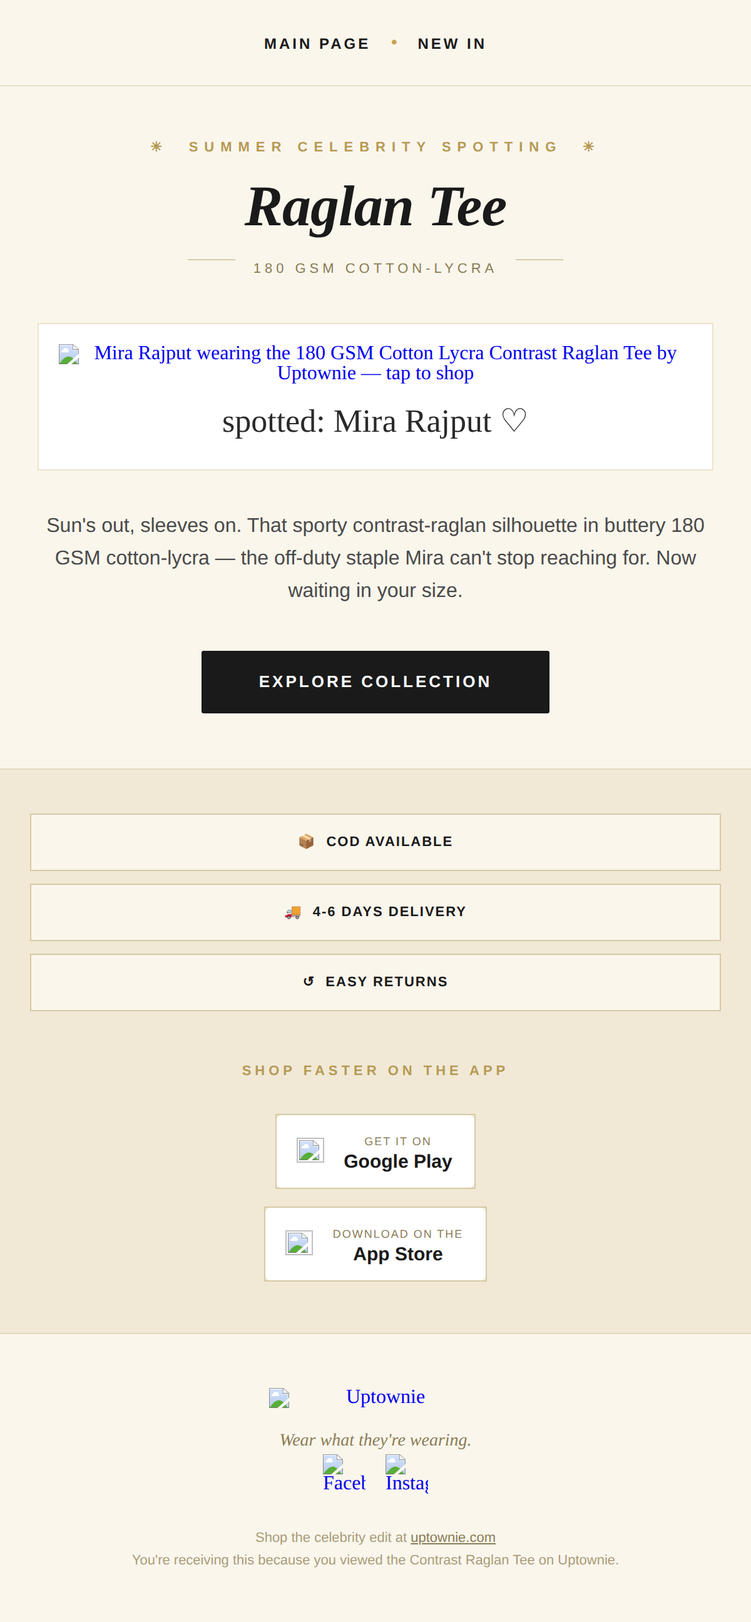
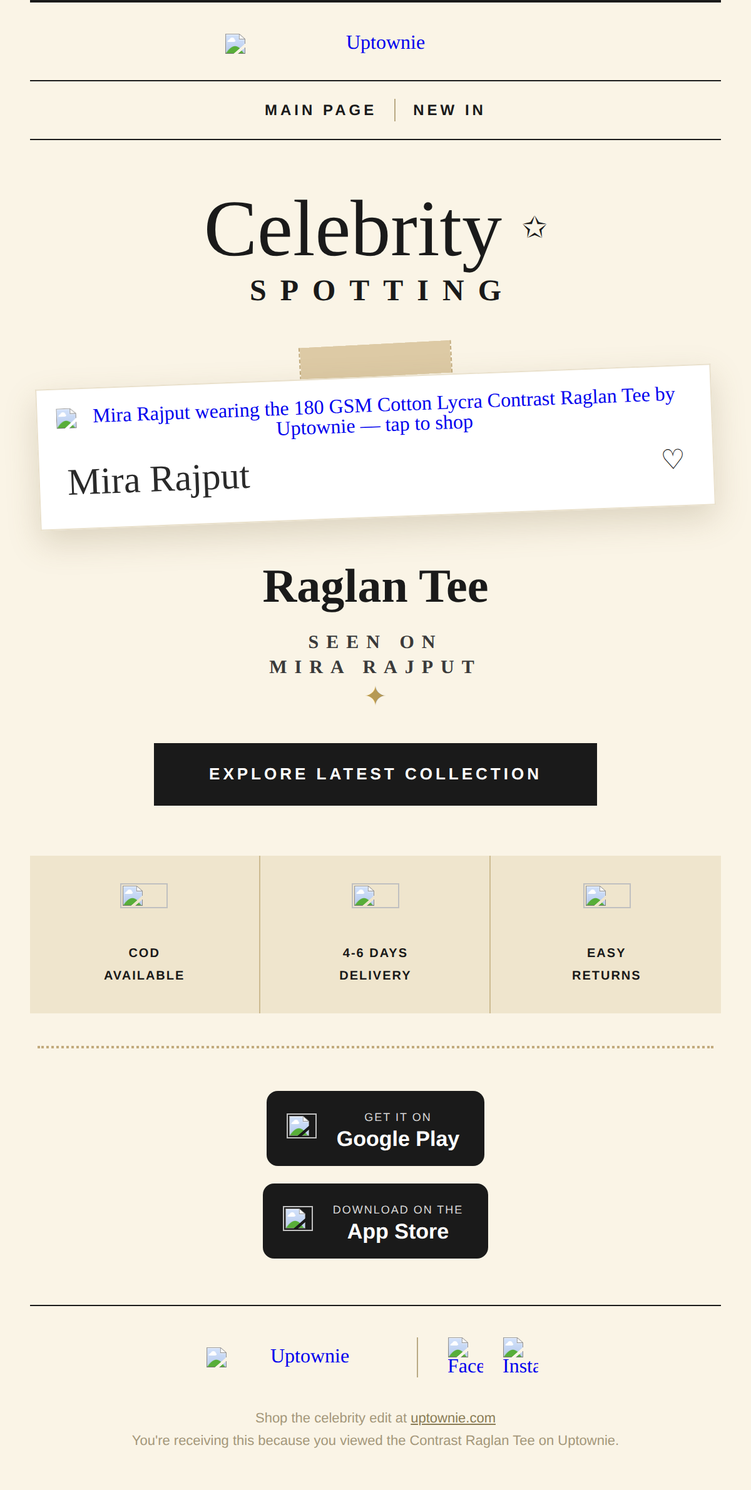
Rebuild email to match celebrity-spotting reference design (polaroid, script fonts, trust + app + social)

diff --git a/raglan-tee-email.html b/raglan-tee-email.html
@@ -7,7 +7,7 @@
   <meta name="x-apple-disable-message-reformatting">
   <meta name="color-scheme" content="light only">
   <meta name="supported-color-schemes" content="light only">
-  <title>Spotted: Mira Rajput in the Raglan Tee</title>
+  <title>Celebrity Spotting — Mira Rajput in the Raglan Tee</title>
   <!--[if mso]>
   <noscript>
     <xml>
@@ -18,6 +18,8 @@
   </noscript>
   <![endif]-->
   <style>
+    @import url('https://fonts.googleapis.com/css2?family=Great+Vibes&family=Playfair+Display:ital,wght@0,600;0,700;0,800;1,600&family=Caveat:wght@600;700&display=swap');
+
     html, body { margin: 0 auto !important; padding: 0 !important; height: 100% !important; width: 100% !important; }
     * { -ms-text-size-adjust: 100%; -webkit-text-size-adjust: 100%; }
     table, td { mso-table-lspace: 0pt !important; mso-table-rspace: 0pt !important; }
@@ -26,22 +28,25 @@
     a { text-decoration: none; }
 
     .btn-explore a { transition: all 0.25s ease; }
-    .btn-explore:hover a { background-color: #1a1a1a !important; color: #ffffff !important; }
-    .trust a:hover { border-color: #c8a24a !important; }
+    .btn-explore:hover a { background-color: #3a3a3a !important; }
+    .polaroid { transform: rotate(-2.2deg); }
+    .tape { transform: rotate(-3deg); }
 
     @media screen and (max-width: 600px) {
       .email-container { width: 100% !important; margin: auto !important; }
       .fluid { max-width: 100% !important; height: auto !important; }
-      .stack-pad { padding-left: 24px !important; padding-right: 24px !important; }
-      .h1 { font-size: 46px !important; line-height: 48px !important; }
-      .nav-link { font-size: 12px !important; padding: 0 12px !important; }
-      .trust-cell { display: block !important; width: 100% !important; padding: 5px 0 !important; }
+      .stack-pad { padding-left: 22px !important; padding-right: 22px !important; }
+      .script { font-size: 64px !important; line-height: 60px !important; }
+      .h1 { font-size: 38px !important; line-height: 42px !important; }
+      .nav-link { font-size: 12px !important; padding: 0 14px !important; }
+      .trust-ico { width: 38px !important; }
+      .trust-txt { font-size: 10px !important; }
       .app-cell { display: block !important; width: 100% !important; text-align: center !important; padding: 7px 0 !important; }
     }
   </style>
 </head>
-<body width="100%" style="margin:0; padding:0 !important; mso-line-height-rule:exactly; background-color:#efe7d4;">
-  <center style="width:100%; background-color:#efe7d4;">
+<body width="100%" style="margin:0; padding:0 !important; mso-line-height-rule:exactly; background-color:#f1e8d4; background-image:url('https://www.transparenttextures.com/patterns/cream-paper.png');">
+  <center style="width:100%; background-color:#f1e8d4; background-image:url('https://www.transparenttextures.com/patterns/cream-paper.png');">
 
   <!-- Preheader -->
   <div style="display:none; font-size:1px; line-height:1px; max-height:0; max-width:0; opacity:0; overflow:hidden; mso-hide:all; font-family:sans-serif;">
@@ -51,66 +56,101 @@
 
   <div style="max-width:600px; margin:0 auto;" class="email-container">
     <!--[if mso]>
-    <table role="presentation" align="center" border="0" cellpadding="0" cellspacing="0" width="600"><tr><td>
+    <table role="presentation" align="center" border="0" cellpadding="0" cellspacing="0" width="600"><tr><td bgcolor="#faf4e6">
     <![endif]-->
 
-    <table role="presentation" align="center" border="0" cellpadding="0" cellspacing="0" width="100%" style="max-width:600px; background-color:#faf6ec;">
+    <table role="presentation" align="center" border="0" cellpadding="0" cellspacing="0" width="100%" style="max-width:600px; background-color:#faf4e6; background-image:url('https://www.transparenttextures.com/patterns/cream-paper.png');">
 
-      <!-- HEADER NAV (logo now lives in footer) -->
+      <!-- 1. LOGO HEADER (bordered, like reference) -->
       <tr>
-        <td style="padding:26px 0 24px; text-align:center; background-color:#faf6ec; border-bottom:1px solid #e9dfc6;">
-          <a href="https://uptownie.com/" target="_blank" class="nav-link" style="display:inline-block; padding:0 24px; font-family:Arial,sans-serif; font-size:13px; line-height:16px; letter-spacing:2px; font-weight:bold; text-transform:uppercase; color:#1a1a1a;">Main Page</a>
-          <span style="display:inline-block; color:#c8a24a;">&bull;</span>
-          <a href="https://uptownie.com/collections/new-in" target="_blank" class="nav-link" style="display:inline-block; padding:0 24px; font-family:Arial,sans-serif; font-size:13px; line-height:16px; letter-spacing:2px; font-weight:bold; text-transform:uppercase; color:#1a1a1a;">New In</a>
+        <td style="padding:0 24px;">
+          <table role="presentation" border="0" cellpadding="0" cellspacing="0" width="100%">
+            <tr><td style="border-top:2px solid #1a1a1a; font-size:0; line-height:0; height:2px;">&nbsp;</td></tr>
+          </table>
+        </td>
+      </tr>
+      <tr>
+        <td style="padding:22px 24px 20px; text-align:center;">
+          <a href="https://uptownie.com/" target="_blank" style="text-decoration:none;">
+            <img src="https://cdn.shopify.com/s/files/1/1780/3381/files/UPTOWNIE_black_logo_20050px.jpg?v=1781509034" width="240" alt="Uptownie" style="display:inline-block; width:240px; max-width:72%; height:auto;">
+          </a>
         </td>
       </tr>
 
-      <!-- EYEBROW -->
+      <!-- 4. HEADER NAV (Main Page | New In) -->
       <tr>
-        <td style="padding:40px 30px 0; text-align:center; background-color:#faf6ec;">
-          <p style="margin:0; font-family:Arial,sans-serif; font-size:11px; line-height:18px; letter-spacing:5px; text-transform:uppercase; color:#b69a55; font-weight:bold;">
-            &#9728;&nbsp;&nbsp;Summer Celebrity Spotting&nbsp;&nbsp;&#9728;
+        <td style="padding:0 24px;">
+          <table role="presentation" border="0" cellpadding="0" cellspacing="0" width="100%">
+            <tr><td style="border-top:1px solid #1a1a1a; font-size:0; line-height:0; height:1px;">&nbsp;</td></tr>
+          </table>
+        </td>
+      </tr>
+      <tr>
+        <td style="padding:13px 24px 14px; text-align:center;">
+          <table role="presentation" align="center" border="0" cellpadding="0" cellspacing="0">
+            <tr>
+              <td style="text-align:center;">
+                <a href="https://uptownie.com/" target="_blank" class="nav-link" style="display:inline-block; padding:0 40px; font-family:Arial,Helvetica,sans-serif; font-size:13px; line-height:16px; letter-spacing:2.5px; font-weight:bold; text-transform:uppercase; color:#1a1a1a;">Main Page</a>
+              </td>
+              <td style="border-left:1px solid #b9aa84; height:18px; font-size:0; line-height:0;">&nbsp;</td>
+              <td style="text-align:center;">
+                <a href="https://uptownie.com/collections/new-in" target="_blank" class="nav-link" style="display:inline-block; padding:0 40px; font-family:Arial,Helvetica,sans-serif; font-size:13px; line-height:16px; letter-spacing:2.5px; font-weight:bold; text-transform:uppercase; color:#1a1a1a;">New In</a>
+              </td>
+            </tr>
+          </table>
+        </td>
+      </tr>
+      <tr>
+        <td style="padding:0 24px;">
+          <table role="presentation" border="0" cellpadding="0" cellspacing="0" width="100%">
+            <tr><td style="border-top:1px solid #1a1a1a; font-size:0; line-height:0; height:1px;">&nbsp;</td></tr>
+          </table>
+        </td>
+      </tr>
+
+      <!-- 7. CELEBRITY SPOTTING (script heading) -->
+      <tr>
+        <td style="padding:40px 30px 4px; text-align:center;">
+          <p class="script" style="margin:0; font-family:'Great Vibes','Brush Script MT',cursive; font-size:74px; line-height:64px; color:#1a1a1a; font-weight:400;">
+            Celebrity <span style="font-family:Arial,sans-serif; font-size:24px; vertical-align:top; color:#1a1a1a;">&#10025;</span>
+          </p>
+          <p style="margin:6px 0 0; font-family:'Playfair Display',Georgia,serif; font-size:24px; line-height:28px; letter-spacing:11px; text-transform:uppercase; color:#1a1a1a; font-weight:600; padding-left:11px;">
+            Spotting
           </p>
         </td>
       </tr>
 
-      <!-- HEADLINE — "Raglan Tee" bold italic serif -->
+      <!-- 2 + 5. POLAROID (washi tape + tilt + clickable -> product) -->
       <tr>
-        <td class="stack-pad" style="padding:14px 40px 0; text-align:center; background-color:#faf6ec;">
-          <h1 class="h1" style="margin:0; font-family:Georgia,'Times New Roman',serif; font-size:54px; line-height:56px; color:#1a1a1a; font-weight:bold; font-style:italic; letter-spacing:-0.5px;">
-            Raglan&nbsp;Tee
-          </h1>
-        </td>
-      </tr>
-      <tr>
-        <td style="padding:18px 0 6px; text-align:center; background-color:#faf6ec;">
-          <table role="presentation" align="center" border="0" cellpadding="0" cellspacing="0"><tr>
-            <td style="border-top:1px solid #d8cba8; width:38px; font-size:0; line-height:0;">&nbsp;</td>
-            <td style="padding:0 14px; font-family:Arial,sans-serif; font-size:11px; line-height:14px; letter-spacing:3px; text-transform:uppercase; color:#8a7c55;">180 GSM Cotton-Lycra</td>
-            <td style="border-top:1px solid #d8cba8; width:38px; font-size:0; line-height:0;">&nbsp;</td>
-          </tr></table>
-        </td>
-      </tr>
-
-      <!-- POLAROID HERO (clickable -> product page) -->
-      <tr>
-        <td style="padding:30px 30px 12px; text-align:center; background-color:#faf6ec;">
+        <td style="padding:24px 30px 0; text-align:center;">
           <!--[if mso]>
-          <table role="presentation" align="center" border="0" cellpadding="0" cellspacing="0" width="420"><tr><td>
+          <table role="presentation" align="center" border="0" cellpadding="0" cellspacing="0" width="400"><tr><td align="center">
           <![endif]-->
-          <table role="presentation" align="center" border="0" cellpadding="0" cellspacing="0" style="margin:0 auto; background-color:#ffffff; border:1px solid #ece3cb;">
+          <!-- washi tape -->
+          <table role="presentation" align="center" border="0" cellpadding="0" cellspacing="0" class="tape" style="margin:0 auto -14px;">
             <tr>
-              <td style="padding:16px 16px 0;">
+              <td height="26" width="120" style="background-color:#d8c39a; opacity:0.85; font-size:0; line-height:0; border-left:1px dashed #c2ab7d; border-right:1px dashed #c2ab7d;">&nbsp;</td>
+            </tr>
+          </table>
+          <!-- polaroid frame -->
+          <table role="presentation" align="center" border="0" cellpadding="0" cellspacing="0" class="polaroid" style="margin:0 auto; background-color:#ffffff; border:1px solid #e9e0cb; box-shadow:0 10px 26px rgba(120,100,60,0.22);">
+            <tr>
+              <td style="padding:15px 15px 0;">
                 <a href="https://uptownie.com/products/180-gsm-cotton-lycra-contrast-raglan-tee-1" target="_blank" style="text-decoration:none;">
-                  <img src="https://cdn.shopify.com/s/files/1/1780/3381/files/CELEBRITY_X_PUJA_CREATIVE.jpg?v=1781508640" width="390" alt="Mira Rajput wearing the 180 GSM Cotton Lycra Contrast Raglan Tee by Uptownie — tap to shop" class="fluid" style="width:100%; max-width:390px; height:auto; display:block; border:0;">
+                  <img src="https://cdn.shopify.com/s/files/1/1780/3381/files/CELEBRITY_X_PUJA_CREATIVE.jpg?v=1781508640" width="380" alt="Mira Rajput wearing the 180 GSM Cotton Lycra Contrast Raglan Tee by Uptownie — tap to shop" class="fluid" style="width:100%; max-width:380px; height:auto; display:block; border:0;">
                 </a>
               </td>
             </tr>
             <tr>
-              <td style="padding:16px 16px 24px; text-align:center;">
-                <p style="margin:0; font-family:'Brush Script MT','Segoe Script',cursive; font-size:26px; line-height:28px; color:#2a2a2a;">
-                  spotted: Mira Rajput &#9825;
-                </p>
+              <td style="padding:12px 22px 20px;">
+                <table role="presentation" border="0" cellpadding="0" cellspacing="0" width="100%">
+                  <tr>
+                    <td style="text-align:left; font-family:'Caveat','Brush Script MT',cursive; font-size:30px; line-height:32px; color:#2a2a2a;">
+                      Mira Rajput
+                    </td>
+                    <td style="text-align:right; font-family:Arial,sans-serif; font-size:22px; color:#1a1a1a;">&#9825;</td>
+                  </tr>
+                </table>
               </td>
             </tr>
           </table>
@@ -120,26 +160,28 @@
         </td>
       </tr>
 
-      <!-- BODY COPY -->
+      <!-- 3. RAGLAN TEE (bold serif) + SEEN ON -->
       <tr>
-        <td class="stack-pad" style="padding:20px 52px 4px; text-align:center; background-color:#faf6ec;">
-          <p style="margin:0; font-family:Arial,sans-serif; font-size:16px; line-height:26px; color:#4a4a4a;">
-            Sun's out, sleeves on. That sporty contrast-raglan silhouette in buttery
-            180 GSM cotton-lycra &mdash; the off-duty staple Mira can't stop reaching for.
-            Now waiting in your size.
+        <td class="stack-pad" style="padding:34px 40px 0; text-align:center;">
+          <h1 class="h1" style="margin:0; font-family:'Playfair Display',Georgia,'Times New Roman',serif; font-size:42px; line-height:46px; color:#1a1a1a; font-weight:800;">
+            Raglan Tee
+          </h1>
+          <p style="margin:14px 0 0; font-family:'Playfair Display',Georgia,serif; font-size:15px; line-height:20px; letter-spacing:6px; text-transform:uppercase; color:#3a3a3a; font-weight:600;">
+            Seen On<br>Mira Rajput
           </p>
+          <p style="margin:2px 0 0; font-family:'Great Vibes',cursive; font-size:22px; line-height:22px; color:#b69a55;">&#10022;</p>
         </td>
       </tr>
 
-      <!-- EXPLORE COLLECTION BUTTON -->
+      <!-- 6. EXPLORE LATEST COLLECTION button -->
       <tr>
-        <td style="padding:30px 40px 44px; text-align:center; background-color:#faf6ec;">
+        <td style="padding:26px 40px 40px; text-align:center;">
           <table role="presentation" align="center" border="0" cellpadding="0" cellspacing="0" class="btn-explore" style="margin:0 auto;">
             <tr>
-              <td align="center" bgcolor="#1a1a1a" style="border-radius:2px;">
+              <td align="center" bgcolor="#1a1a1a">
                 <a href="https://uptownie.com/collections/new-in" target="_blank"
-                   style="display:inline-block; padding:17px 46px; font-family:Arial,sans-serif; font-size:13px; line-height:16px; font-weight:bold; letter-spacing:2px; color:#ffffff; text-transform:uppercase; background-color:#1a1a1a; border-radius:2px;">
-                  Explore Collection
+                   style="display:inline-block; padding:17px 44px; font-family:Arial,Helvetica,sans-serif; font-size:13px; line-height:16px; font-weight:bold; letter-spacing:2.5px; color:#ffffff; text-transform:uppercase; background-color:#1a1a1a;">
+                  Explore Latest Collection
                 </a>
               </td>
             </tr>
@@ -147,24 +189,29 @@
         </td>
       </tr>
 
-      <!-- TRUST / SERVICE BUTTONS (light) -->
+      <!-- 8. TRUST BADGES (line icons, dividers) -->
       <tr>
-        <td class="trust" style="padding:30px 24px 18px; text-align:center; background-color:#f1e9d6; border-top:1px solid #e4d9bd;">
-          <table role="presentation" align="center" border="0" cellpadding="0" cellspacing="0" width="100%">
+        <td style="padding:0 24px;">
+          <table role="presentation" border="0" cellpadding="0" cellspacing="0" width="100%" style="background-color:#efe5cd; background-image:url('https://www.transparenttextures.com/patterns/cream-paper.png');">
             <tr>
-              <td class="trust-cell" align="center" width="33%" style="padding:6px;">
-                <a href="https://uptownie.com/" target="_blank" style="display:block; padding:14px 6px; font-family:Arial,sans-serif; font-size:11px; line-height:16px; letter-spacing:1px; font-weight:bold; text-transform:uppercase; color:#1a1a1a; border:1px solid #d6c9a5; background-color:#faf6ec;">
-                  &#128230;&nbsp; COD Available
+              <td style="padding:22px 8px; text-align:center; width:33.33%;">
+                <a href="https://uptownie.com/" target="_blank" style="text-decoration:none; display:inline-block;">
+                  <img src="https://img.icons8.com/ios/100/1a1a1a/box.png" width="44" height="44" alt="" class="trust-ico" style="display:block; margin:0 auto 8px;">
+                  <span class="trust-txt" style="font-family:Arial,sans-serif; font-size:11px; line-height:15px; letter-spacing:1px; font-weight:bold; text-transform:uppercase; color:#1a1a1a;">COD<br>Available</span>
                 </a>
               </td>
-              <td class="trust-cell" align="center" width="34%" style="padding:6px;">
-                <a href="https://uptownie.com/" target="_blank" style="display:block; padding:14px 6px; font-family:Arial,sans-serif; font-size:11px; line-height:16px; letter-spacing:1px; font-weight:bold; text-transform:uppercase; color:#1a1a1a; border:1px solid #d6c9a5; background-color:#faf6ec;">
-                  &#128666;&nbsp; 4-6 Days Delivery
+              <td style="border-left:1px solid #cdbb91; width:1px; font-size:0;">&nbsp;</td>
+              <td style="padding:22px 8px; text-align:center; width:33.33%;">
+                <a href="https://uptownie.com/" target="_blank" style="text-decoration:none; display:inline-block;">
+                  <img src="https://img.icons8.com/ios/100/1a1a1a/in-transit.png" width="44" height="44" alt="" class="trust-ico" style="display:block; margin:0 auto 8px;">
+                  <span class="trust-txt" style="font-family:Arial,sans-serif; font-size:11px; line-height:15px; letter-spacing:1px; font-weight:bold; text-transform:uppercase; color:#1a1a1a;">4-6 Days<br>Delivery</span>
                 </a>
               </td>
-              <td class="trust-cell" align="center" width="33%" style="padding:6px;">
-                <a href="https://uptownie.com/" target="_blank" style="display:block; padding:14px 6px; font-family:Arial,sans-serif; font-size:11px; line-height:16px; letter-spacing:1px; font-weight:bold; text-transform:uppercase; color:#1a1a1a; border:1px solid #d6c9a5; background-color:#faf6ec;">
-                  &#8634;&nbsp; Easy Returns
+              <td style="border-left:1px solid #cdbb91; width:1px; font-size:0;">&nbsp;</td>
+              <td style="padding:22px 8px; text-align:center; width:33.33%;">
+                <a href="https://uptownie.com/" target="_blank" style="text-decoration:none; display:inline-block;">
+                  <img src="https://img.icons8.com/ios/100/1a1a1a/return-purchase.png" width="44" height="44" alt="" class="trust-ico" style="display:block; margin:0 auto 8px;">
+                  <span class="trust-txt" style="font-family:Arial,sans-serif; font-size:11px; line-height:15px; letter-spacing:1px; font-weight:bold; text-transform:uppercase; color:#1a1a1a;">Easy<br>Returns</span>
                 </a>
               </td>
             </tr>
@@ -172,39 +219,45 @@
         </td>
       </tr>
 
-      <!-- APP DOWNLOAD BUTTONS (light, outlined) -->
+      <!-- dotted divider -->
       <tr>
-        <td style="padding:16px 24px 34px; text-align:center; background-color:#f1e9d6;">
-          <p style="margin:0 0 18px; font-family:Arial,sans-serif; font-size:11px; line-height:18px; letter-spacing:3px; text-transform:uppercase; color:#b69a55; font-weight:bold;">
-            Shop faster on the app
-          </p>
+        <td style="padding:26px 30px 4px;">
+          <table role="presentation" border="0" cellpadding="0" cellspacing="0" width="100%">
+            <tr><td style="border-top:2px dotted #c2ab7d; font-size:0; line-height:0; height:1px;">&nbsp;</td></tr>
+          </table>
+        </td>
+      </tr>
+
+      <!-- 9. APP DOWNLOAD BADGES -->
+      <tr>
+        <td style="padding:22px 24px 30px; text-align:center;">
           <table role="presentation" align="center" border="0" cellpadding="0" cellspacing="0" style="margin:0 auto;">
             <tr>
-              <td class="app-cell" align="center" style="padding:0 6px;">
+              <td class="app-cell" align="center" style="padding:0 7px;">
                 <a href="https://play.google.com/store/search?q=uptownie&c=apps" target="_blank" style="text-decoration:none;">
-                  <table role="presentation" border="0" cellpadding="0" cellspacing="0" style="background-color:#ffffff; border:1px solid #d6c9a5; border-radius:8px;">
+                  <table role="presentation" border="0" cellpadding="0" cellspacing="0" style="background-color:#1a1a1a; border-radius:9px;">
                     <tr>
                       <td style="padding:11px 16px;">
-                        <img src="https://img.icons8.com/color/48/google-play.png" width="22" height="22" alt="" style="display:inline-block; vertical-align:middle;">
+                        <img src="https://img.icons8.com/color/48/google-play.png" width="24" height="24" alt="" style="display:inline-block; vertical-align:middle;">
                       </td>
-                      <td style="padding:11px 18px 11px 0;">
-                        <span style="font-family:Arial,sans-serif; font-size:9px; line-height:11px; letter-spacing:1px; color:#8a7c55; text-transform:uppercase;">Get it on</span><br>
-                        <span style="font-family:Arial,sans-serif; font-size:15px; line-height:17px; color:#1a1a1a; font-weight:bold;">Google Play</span>
+                      <td style="padding:11px 20px 11px 0;">
+                        <span style="font-family:Arial,sans-serif; font-size:9px; line-height:11px; letter-spacing:1px; color:#d9d9d9; text-transform:uppercase;">Get it on</span><br>
+                        <span style="font-family:Arial,sans-serif; font-size:17px; line-height:19px; color:#ffffff; font-weight:bold;">Google Play</span>
                       </td>
                     </tr>
                   </table>
                 </a>
               </td>
-              <td class="app-cell" align="center" style="padding:0 6px;">
+              <td class="app-cell" align="center" style="padding:0 7px;">
                 <a href="https://apps.apple.com/in/app/uptownie/id6615086863" target="_blank" style="text-decoration:none;">
-                  <table role="presentation" border="0" cellpadding="0" cellspacing="0" style="background-color:#ffffff; border:1px solid #d6c9a5; border-radius:8px;">
+                  <table role="presentation" border="0" cellpadding="0" cellspacing="0" style="background-color:#1a1a1a; border-radius:9px;">
                     <tr>
                       <td style="padding:11px 16px;">
-                        <img src="https://img.icons8.com/ios-filled/50/1a1a1a/mac-os.png" width="22" height="22" alt="" style="display:inline-block; vertical-align:middle;">
+                        <img src="https://img.icons8.com/ios-filled/50/ffffff/mac-os.png" width="24" height="24" alt="" style="display:inline-block; vertical-align:middle;">
                       </td>
-                      <td style="padding:11px 18px 11px 0;">
-                        <span style="font-family:Arial,sans-serif; font-size:9px; line-height:11px; letter-spacing:1px; color:#8a7c55; text-transform:uppercase;">Download on the</span><br>
-                        <span style="font-family:Arial,sans-serif; font-size:15px; line-height:17px; color:#1a1a1a; font-weight:bold;">App Store</span>
+                      <td style="padding:11px 20px 11px 0;">
+                        <span style="font-family:Arial,sans-serif; font-size:9px; line-height:11px; letter-spacing:1px; color:#d9d9d9; text-transform:uppercase;">Download on the</span><br>
+                        <span style="font-family:Arial,sans-serif; font-size:17px; line-height:19px; color:#ffffff; font-weight:bold;">App Store</span>
                       </td>
                     </tr>
                   </table>
@@ -215,33 +268,41 @@
         </td>
       </tr>
 
-      <!-- FOOTER: brand logo + social (light) -->
+      <!-- top rule before footer -->
       <tr>
-        <td style="padding:42px 40px 40px; text-align:center; background-color:#faf6ec; border-top:1px solid #e4d9bd;">
-          <a href="https://uptownie.com/" target="_blank" style="text-decoration:none;">
-            <img src="https://cdn.shopify.com/s/files/1/1780/3381/files/UPTOWNIE_black_logo_20050px.jpg?v=1781509034" width="170" alt="Uptownie" style="display:inline-block; width:170px; max-width:60%; height:auto;">
-          </a>
+        <td style="padding:0 24px;">
+          <table role="presentation" border="0" cellpadding="0" cellspacing="0" width="100%">
+            <tr><td style="border-top:1px solid #1a1a1a; font-size:0; line-height:0; height:1px;">&nbsp;</td></tr>
+          </table>
+        </td>
+      </tr>
 
-          <p style="margin:16px 0 0; font-family:Georgia,'Times New Roman',serif; font-size:14px; line-height:20px; font-style:italic; color:#8a7c55;">
-            Wear what they're wearing.
-          </p>
-
-          <table role="presentation" align="center" border="0" cellpadding="0" cellspacing="0" style="margin:24px auto 0;">
+      <!-- 10 + 11. FOOTER: logo + social -->
+      <tr>
+        <td style="padding:24px 24px 16px;">
+          <table role="presentation" align="center" border="0" cellpadding="0" cellspacing="0">
             <tr>
-              <td style="padding:0 8px;">
-                <a href="https://www.facebook.com/uptownie" target="_blank" style="text-decoration:none;">
-                  <img src="https://img.icons8.com/fluency/48/facebook-new.png" width="34" height="34" alt="Facebook" style="display:block;">
+              <td style="padding:0 18px 0 0; text-align:center;">
+                <a href="https://uptownie.com/" target="_blank" style="text-decoration:none;">
+                  <img src="https://cdn.shopify.com/s/files/1/1780/3381/files/UPTOWNIE_black_logo_20050px.jpg?v=1781509034" width="150" alt="Uptownie" style="display:inline-block; width:150px; height:auto; vertical-align:middle;">
                 </a>
               </td>
-              <td style="padding:0 8px;">
+              <td style="border-left:1px solid #b9aa84; height:26px; font-size:0; line-height:0;">&nbsp;</td>
+              <td style="padding:0 0 0 18px;">
+                <a href="https://www.facebook.com/uptownie" target="_blank" style="text-decoration:none;">
+                  <img src="https://img.icons8.com/ios-filled/50/1a1a1a/facebook-new.png" width="28" height="28" alt="Facebook" style="display:inline-block; vertical-align:middle; margin:0 6px;">
+                </a>
                 <a href="https://www.instagram.com/uptownie101/" target="_blank" style="text-decoration:none;">
-                  <img src="https://img.icons8.com/fluency/48/instagram-new.png" width="34" height="34" alt="Instagram" style="display:block;">
+                  <img src="https://img.icons8.com/ios-filled/50/1a1a1a/instagram-new.png" width="28" height="28" alt="Instagram" style="display:inline-block; vertical-align:middle; margin:0 6px;">
                 </a>
               </td>
             </tr>
           </table>
-
-          <p style="margin:24px 0 0; font-family:Arial,sans-serif; font-size:11px; line-height:18px; color:#a99c79;">
+        </td>
+      </tr>
+      <tr>
+        <td style="padding:8px 40px 30px; text-align:center;">
+          <p style="margin:0; font-family:Arial,sans-serif; font-size:11px; line-height:18px; color:#a4977a;">
             Shop the celebrity edit at
             <a href="https://uptownie.com/" target="_blank" style="color:#8a7c55; text-decoration:underline;">uptownie.com</a><br>
             You're receiving this because you viewed the Contrast Raglan Tee on Uptownie.
